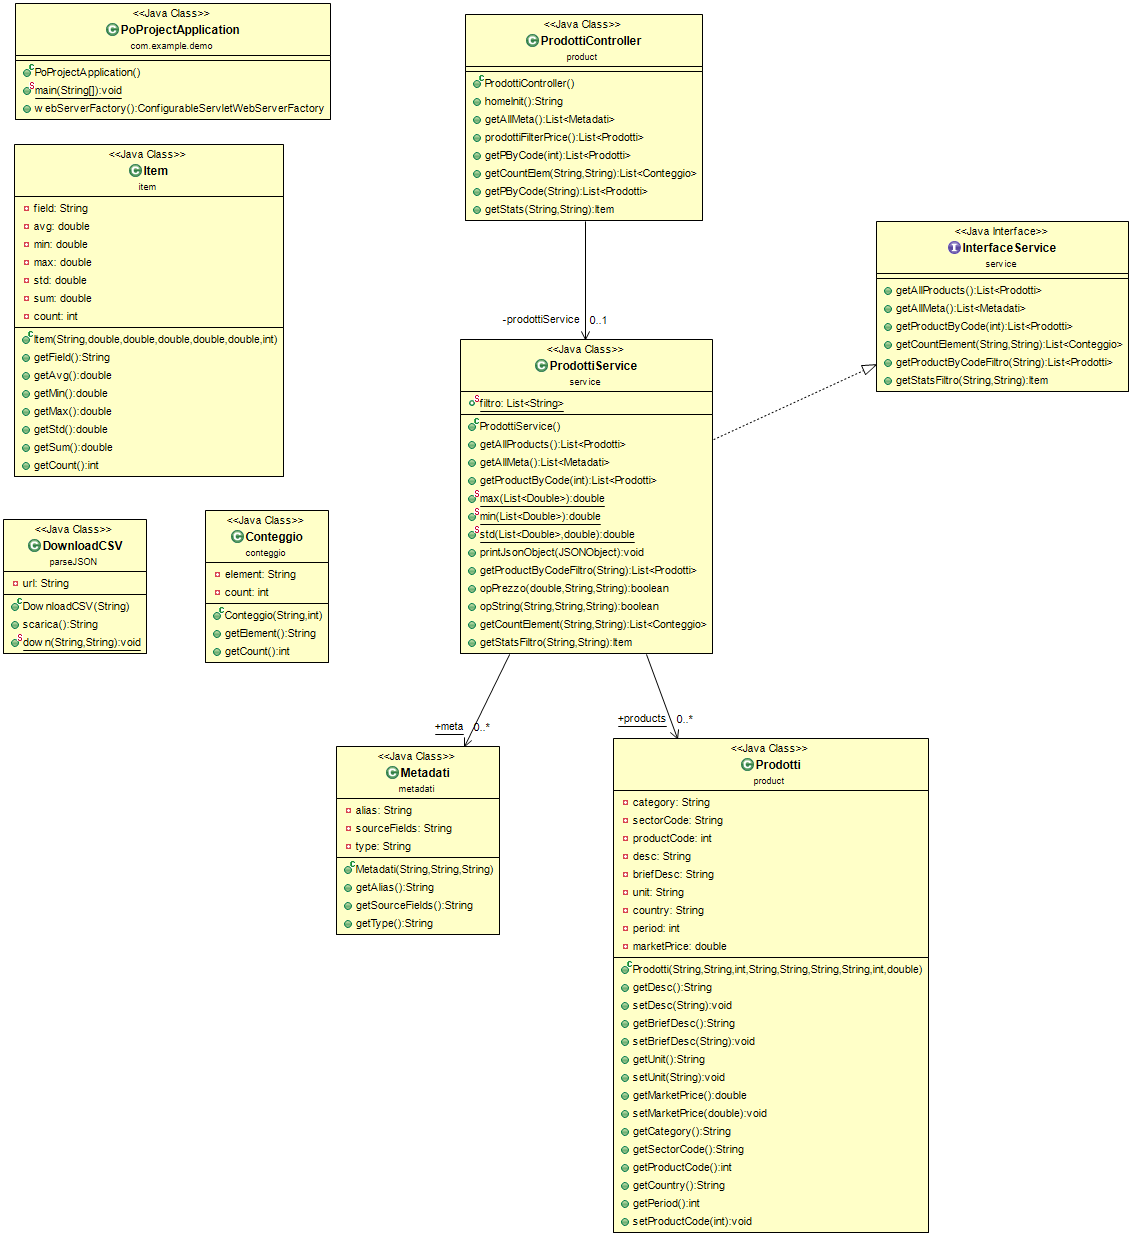
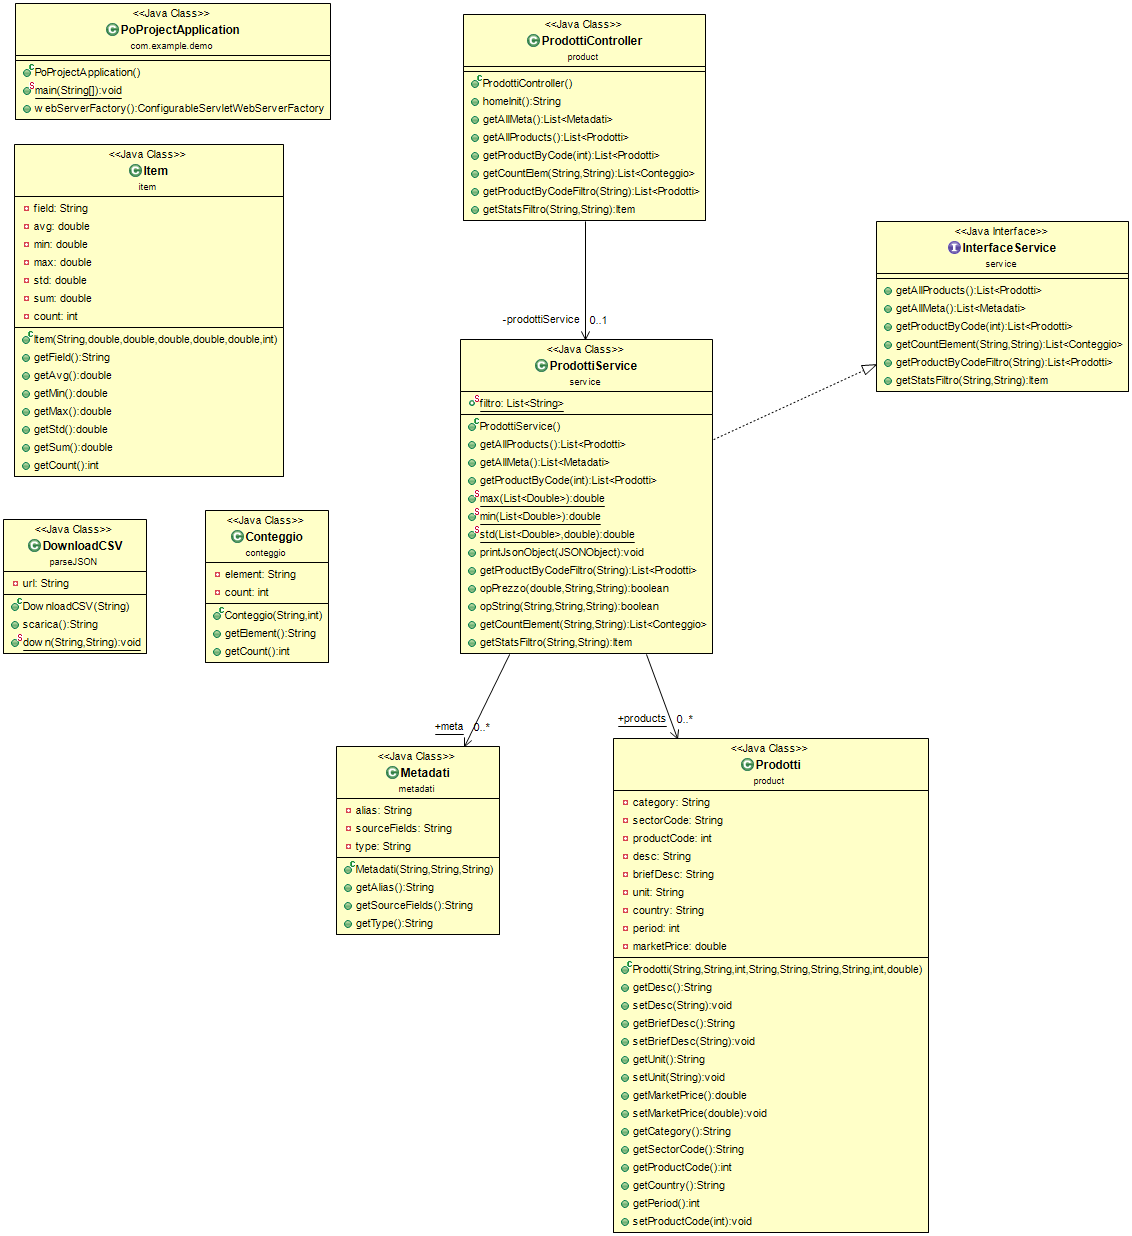
update

Changed region(s): [[0.4019, 0.0, 0.6493, 0.1845]]

diff --git a/POProject/src/main/java/service/ProdottiService.java b/POProject/src/main/java/service/ProdottiService.java
@@ -108,13 +108,13 @@ public class ProdottiService implements InterfaceService{
 	@Override
 	public List<Prodotti> getProductByCode(int productCode){
 		List<Prodotti> prodotti = getAllProducts();
-		List<Prodotti> prova = new ArrayList<>();
+		List<Prodotti> prod = new ArrayList<>();
 		for(Prodotti p: prodotti){
 			if(p.getProductCode() == productCode){
-				prova.add(p);
+				prod.add(p);
 			}
 		}
-		return prova;
+		return prod;
 	}
 
 	/**
@@ -208,26 +208,26 @@ public class ProdottiService implements InterfaceService{
 
 		List<Prodotti> prodotti = getAllProducts();
 
-		List<Prodotti> prova = new ArrayList<>();
+		List<Prodotti> prod = new ArrayList<>();
 		switch(filtro.get(0)){
 		case "prezzo":
 			for(Prodotti p: prodotti) {
 				if(opPrezzo(p.getMarketPrice(),filtro.get(1),filtro.get(2)))
-					prova.add(p);
+					prod.add(p);
 			}
 			break;
 			
 		case "country":
 			for(Prodotti p: prodotti) {
 				if(opString(p.getCountry(),filtro.get(1),filtro.get(2)))
-					prova.add(p);
+					prod.add(p);
 			}
 			break;
 			
 		case "desc":
 			for(Prodotti p: prodotti) {
 				if(opString(p.getDesc(),filtro.get(1),filtro.get(2)))
-					prova.add(p);
+					prod.add(p);
 			}
 			break;
 			
@@ -236,7 +236,7 @@ public class ProdottiService implements InterfaceService{
 			
 	
 		}
-		return prova;
+		return prod;
 	}
 	
 	/**
@@ -320,7 +320,7 @@ public class ProdottiService implements InterfaceService{
 	@Override
 	public List<Conteggio> getCountElement(String field, String filter) {
 		List<Prodotti> prodotti;
-		List<Conteggio> prova = new ArrayList<>();
+		List<Conteggio> prod = new ArrayList<>();
 		List<String> list = new ArrayList<>();
 
 		if(filter!=null) {
@@ -336,7 +336,7 @@ public class ProdottiService implements InterfaceService{
 					}
 					Set<String> distinct = new HashSet<>(list);		
 					for(String s:distinct){
-						prova.add(new Conteggio(s,Collections.frequency(list, s)));
+						prod.add(new Conteggio(s,Collections.frequency(list, s)));
 						
 					}
 					
@@ -348,7 +348,7 @@ public class ProdottiService implements InterfaceService{
 					}
 					Set<String> distinct2 = new HashSet<>(list);		
 					for(String s:distinct2){
-						prova.add(new Conteggio(s,Collections.frequency(list, s)));
+						prod.add(new Conteggio(s,Collections.frequency(list, s)));
 						
 					}
 				break;
@@ -358,7 +358,7 @@ public class ProdottiService implements InterfaceService{
 					
 			}
 		
-		return prova;
+		return prod;
 	}
 
 	/**

diff --git a/POProject/src/main/java/product/ProdottiController.java b/POProject/src/main/java/product/ProdottiController.java
@@ -42,7 +42,7 @@ public class ProdottiController {
 	 * @return  a list of all products
 	 */
 	@GetMapping("/prodotti")
-	public List<Prodotti> prodottiFilterPrice(){
+	public List<Prodotti> getAllProducts(){
 			return prodottiService.getAllProducts();
 	}
 	
@@ -51,7 +51,7 @@ public class ProdottiController {
 	 * @return a list of products with productcode = filter
 	 */
 	@GetMapping("/prodotti/{filter}")
-	public List<Prodotti> getPByCode(@PathVariable int filter){
+	public List<Prodotti> getProductByCode(@PathVariable int filter){
 		return prodottiService.getProductByCode(filter);
 	}
 	
@@ -69,7 +69,7 @@ public class ProdottiController {
 	 * @return a list of products filtered
 	 */
 	@PostMapping(path="/prodotti", consumes= {"application/JSON"})
-	public List<Prodotti> getPByCode(@RequestBody String filter){
+	public List<Prodotti> getProductByCodeFiltro(@RequestBody String filter){
 		return prodottiService.getProductByCodeFiltro(filter);
 	}
 	
@@ -78,7 +78,7 @@ public class ProdottiController {
 	 * @return statistics of a field
 	 */
 	@GetMapping("/stats")
-	public Item getStats(@RequestParam(value = "filter", required=false)String filter,@RequestParam(value = "field", required=true) String field)  {
+	public Item getStatsFiltro(@RequestParam(value = "filter", required=false)String filter,@RequestParam(value = "field", required=true) String field)  {
 		return prodottiService.getStatsFiltro(filter, field);
 	}
 	
